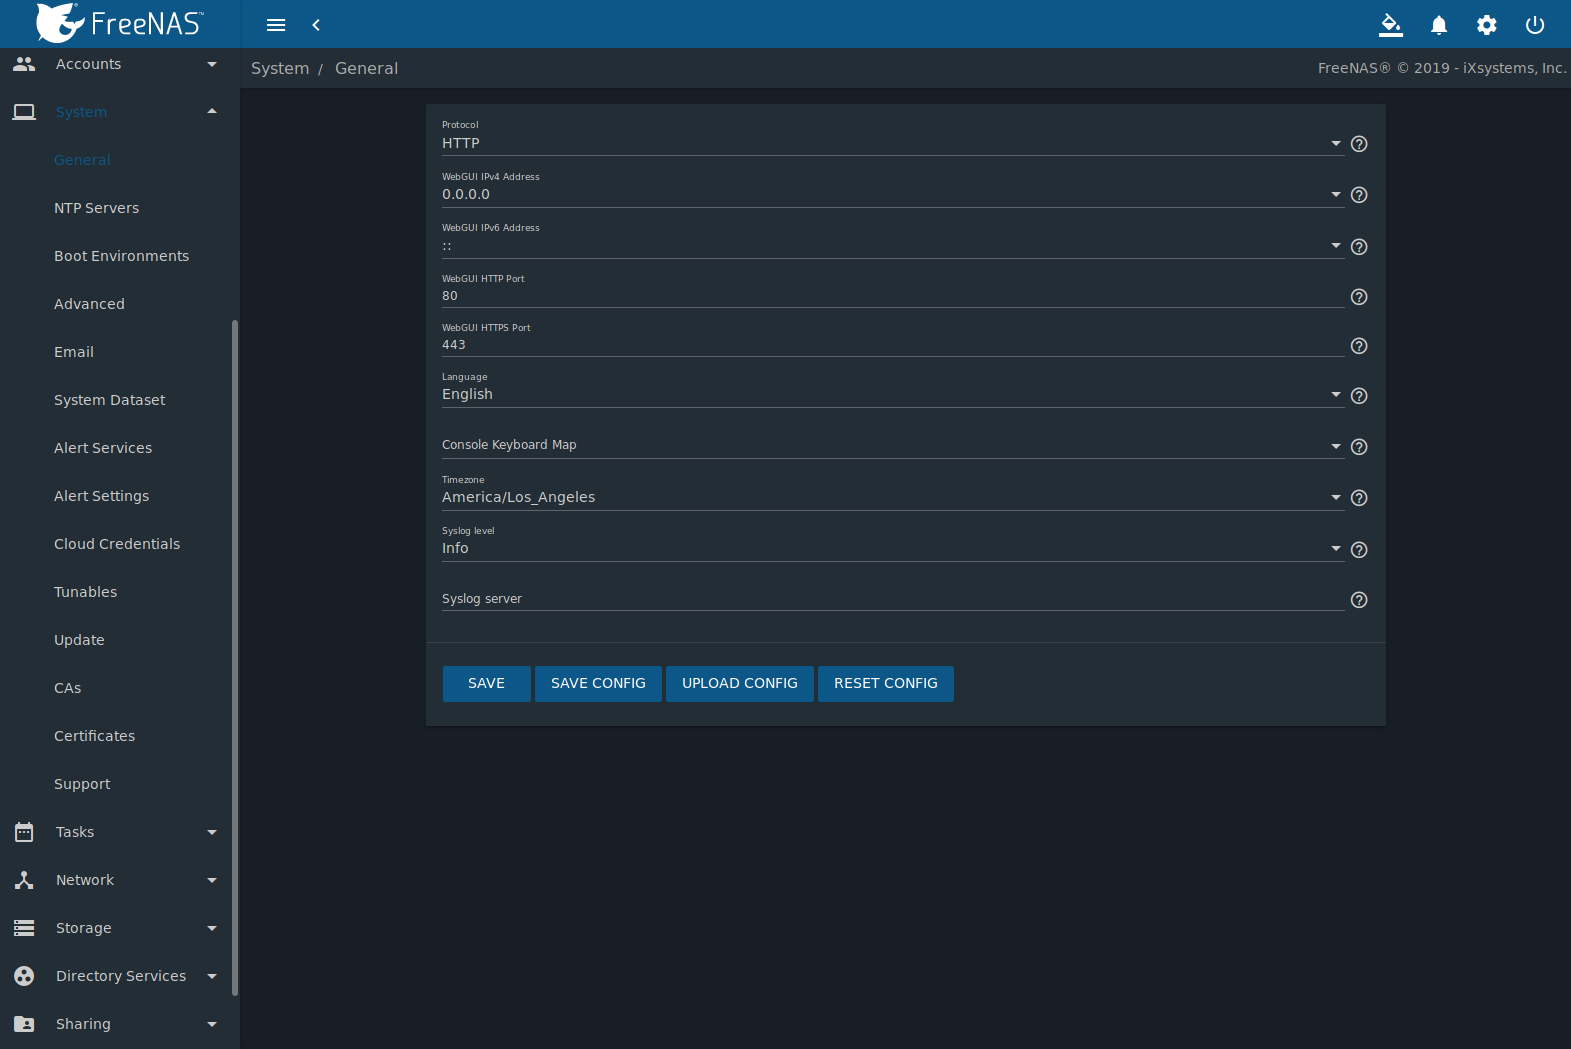
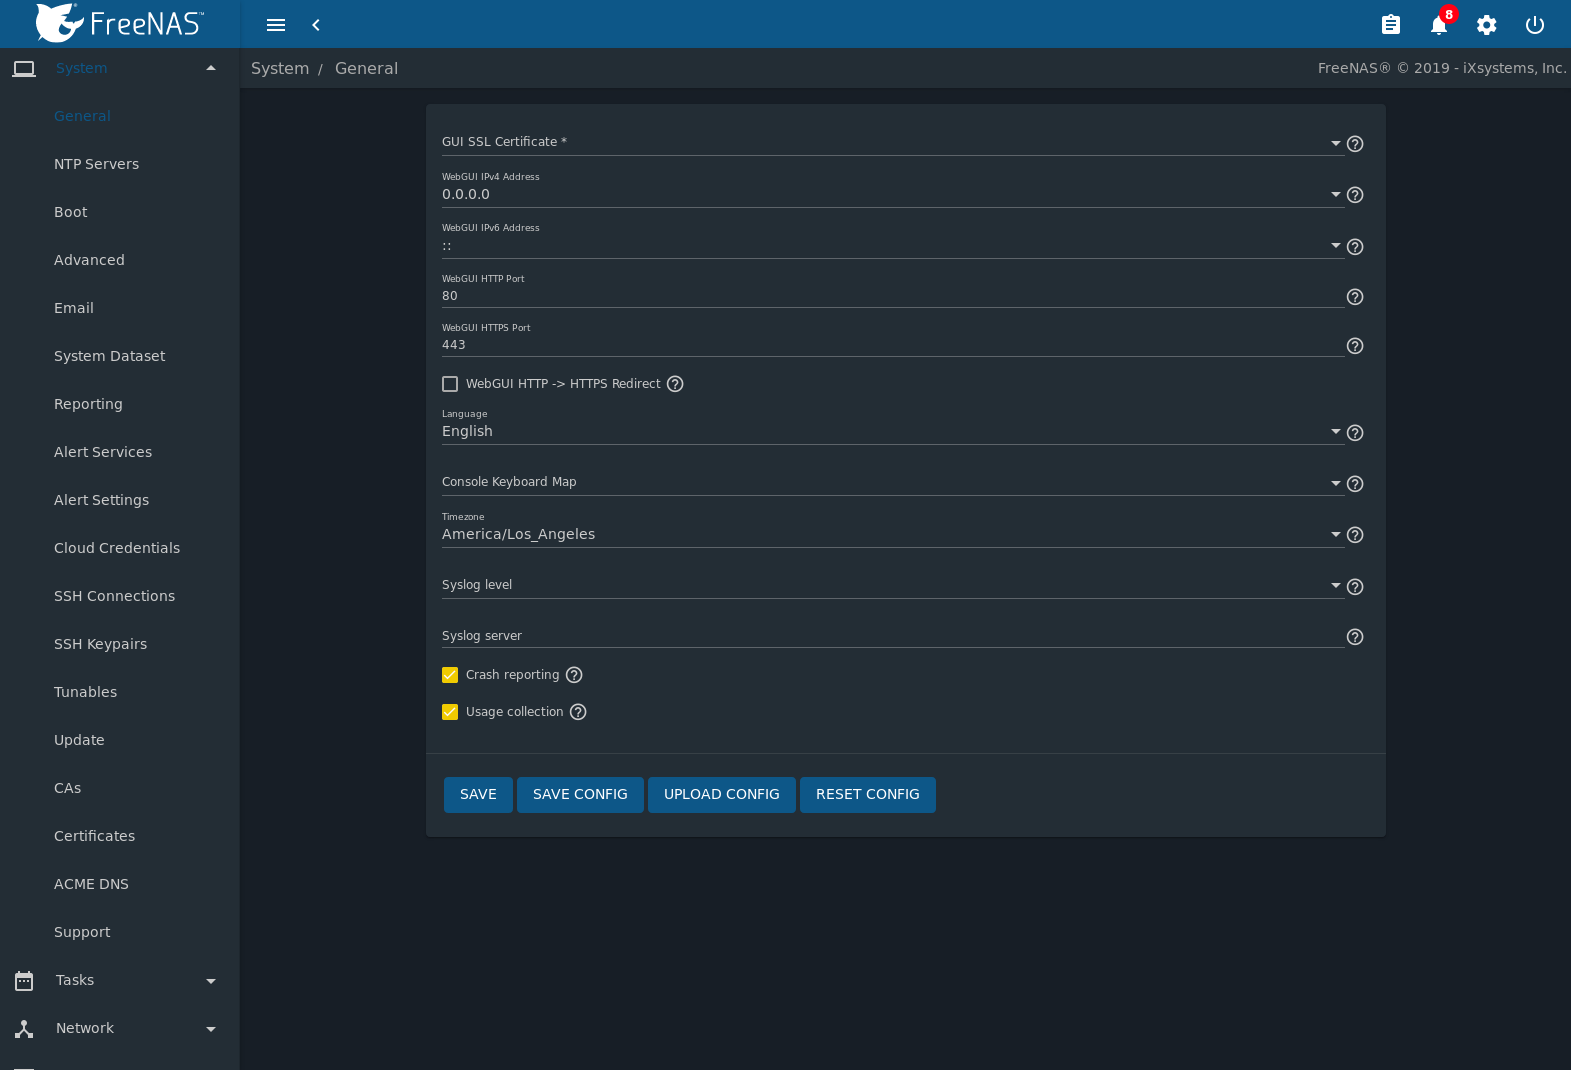
NAS-100824: Update System/General documentation - Add entries to intro.rst for all the field changes on this screen. - Update system-general.png with a temporary image. - Review "General Configuration Settings" table and update to more closely match the UI. - Quick review of the rest of the section 

diff --git a/userguide/system.rst b/userguide/system.rst
@@ -116,25 +116,21 @@ General
 -------
 
 :menuselection:`System --> General`
-is shown in
-:numref:`Figure %s <system_general_fig>`.
+contains options for configuring the |web-ui| and other basic system
+settings.
 
 .. _system_general_fig:
 
 #ifdef freenas
 .. figure:: images/system-general.png
 
-   General Screen
+   General System Options
 #endif freenas
 #ifdef truenas
 .. figure:: images/truenas/system-general.png
 
-   General Screen
+   General System Options
 #endif truenas
-
-
-:numref:`Table %s <system_general_tab>` summarizes the configurable
-settings in the General tab:
 
 
 .. tabularcolumns:: |>{\RaggedRight}p{\dimexpr 0.25\linewidth-2\tabcolsep}
@@ -150,17 +146,17 @@ settings in the General tab:
    | Setting              | Value          | Description                                                                                                              |
    |                      |                |                                                                                                                          |
    +======================+================+==========================================================================================================================+
-   | GUI SSL Certificate  | drop-down menu | Required for *HTTPS*. Default is :literal:`freenas_default`. Choose a certificate from the drop-down.                    |
-   |                      |                |                                                                                                                          |
+   | GUI SSL Certificate  | drop-down menu | Required for *HTTPS*. Default is :literal:`freenas_default`. Choose a :ref:`certificate <Certificates>` from the         |
+   |                      |                | drop-down.                                                                                                               |
    +----------------------+----------------+--------------------------------------------------------------------------------------------------------------------------+
-   | WebGUI IPv4 Address  | drop-down menu | Choose a recent IP addresses to limit the usage when accessing the |web-ui|. The                                         |
+   | WebGUI IPv4 Address  | drop-down menu | Choose recent IP addresses to limit the usage when accessing the |web-ui|. The                                           |
    |                      |                | built-in HTTP server binds to the wildcard address of *0.0.0.0* (any address) and issues an                              |
-   |                      |                | alert if the specified address becomes unavailable.                                                                      |
+   |                      |                | alert if the specified addresses become unavailable.                                                                     |
    |                      |                |                                                                                                                          |
    +----------------------+----------------+--------------------------------------------------------------------------------------------------------------------------+
-   | WebGUI IPv6 Address  | drop-down menu | Choose a recent IPv6 addresses to limit the usage when accessing the |web-ui|. The                                       |
+   | WebGUI IPv6 Address  | drop-down menu | Choose recent IPv6 addresses to limit the usage when accessing the |web-ui|. The                                         |
    |                      |                | built-in HTTP server binds to any address and issues an alert                                                            |
-   |                      |                | if the specified address becomes unavailable.                                                                            |
+   |                      |                | if the specified addresses become unavailable.                                                                           |
    |                      |                |                                                                                                                          |
    +----------------------+----------------+--------------------------------------------------------------------------------------------------------------------------+
    | WebGUI HTTP Port     | integer        | Allow configuring a non-standard port for accessing the |web-ui| over HTTP. Changing this setting                        |
@@ -198,14 +194,16 @@ settings in the General tab:
    |                      |                | to both the console and the remote server.                                                                               |
    |                      |                |                                                                                                                          |
    +----------------------+----------------+--------------------------------------------------------------------------------------------------------------------------+
-   | Crash reporting      | checkbox       | Set to enable sending anonymous crash reports to iXsystems.                                                              |
+   | Crash reporting      | checkbox       | Send anonymous crash reports to iXsystems.                                                                               |
    |                      |                |                                                                                                                          |
    +----------------------+----------------+--------------------------------------------------------------------------------------------------------------------------+
-   | Usage Collection     | checkbox       | Set to enable sending anonymous usage statistics to iXsystems.                                                           |
+   | Usage Collection     | checkbox       | Send anonymous usage statistics to iXsystems.                                                                            |
    |                      |                |                                                                                                                          |
    +----------------------+----------------+--------------------------------------------------------------------------------------------------------------------------+
 
-After making any changes, click the :guilabel:`SAVE` button.
+After making any changes, click :guilabel:`SAVE`. Changes to
+:guilabel:`WebGUI` fields can interrupt |web-ui| connectivity while the
+new settings are applied.
 
 This screen also contains these buttons:
 
@@ -237,9 +235,10 @@ This screen also contains these buttons:
   only on the |os-device|. When :guilabel:`Save Config` is chosen, a
   dialog gives two options. :guilabel:`Export Password Secret Seed`
   includes passwords in the configuration file which allows the
-  configuration file to be restored to a different |os-device| where the decryption seed is not already
-  present. Configuration backups containing the seed must be physically
-  secured to prevent decryption of passwords and unauthorized access.
+  configuration file to be restored to a different |os-device| where the
+  decryption seed is not already present. Configuration backups
+  containing the seed must be physically secured to prevent decryption
+  of passwords and unauthorized access.
 
   .. warning:: The :guilabel:`Export Password Secret Seed` option is off
      by default and should only be used when making a configuration
@@ -252,8 +251,8 @@ This screen also contains these buttons:
   restored if the configuration file is uploaded to the system using
   :guilabel:`UPLOAD CONFIG`.
 
-* :guilabel:`UPLOAD CONFIG`: allows browsing to the location of a previously
-  saved configuration file to restore that configuration.
+* :guilabel:`UPLOAD CONFIG`: allows browsing to the location of a
+  previously saved configuration file to restore that configuration.
 
 * :guilabel:`RESET CONFIG`: reset the configuration database
   to the default base version. This does not delete user SSH keys or any

diff --git a/userguide/intro.rst b/userguide/intro.rst
@@ -143,6 +143,20 @@ This software has been added or updated:
 
 These screen options have changed:
 
+* The :guilabel:`GUI SSL Certificate`,
+  :guilabel:`WebGUI HTTP -> HTTPS Redirect`,
+  :guilabel:`Usage collection`, and :guilabel:`Crash reporting` fields
+  have been added to
+  :menuselection:`System --> General`.
+
+* The :guilabel:`Protocol` field has been removed from
+  :menuselection:`System --> General`.
+
+* The :guilabel:`WebGUI IPv4 Address` and :guilabel:`WebGUI IPv6 Address`
+  fields in
+  :menuselection:`System --> General`
+  have been updated to allow selecting multiple IP addresses.
+
 * :guilabel:`IPMI SEL Low Space Left` and :guilabel:`IPMI System Event`
   fields have been added to
   :menuselection:`System --> Alert Settings`.
